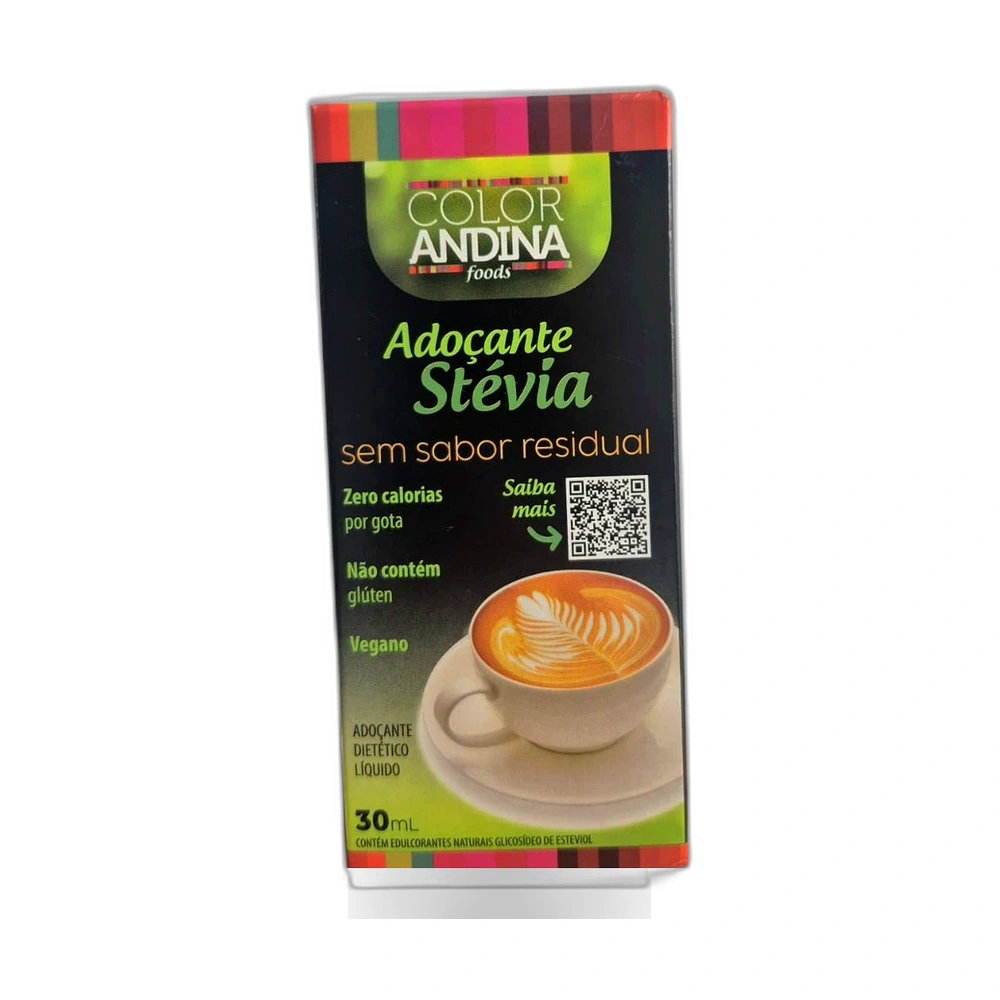
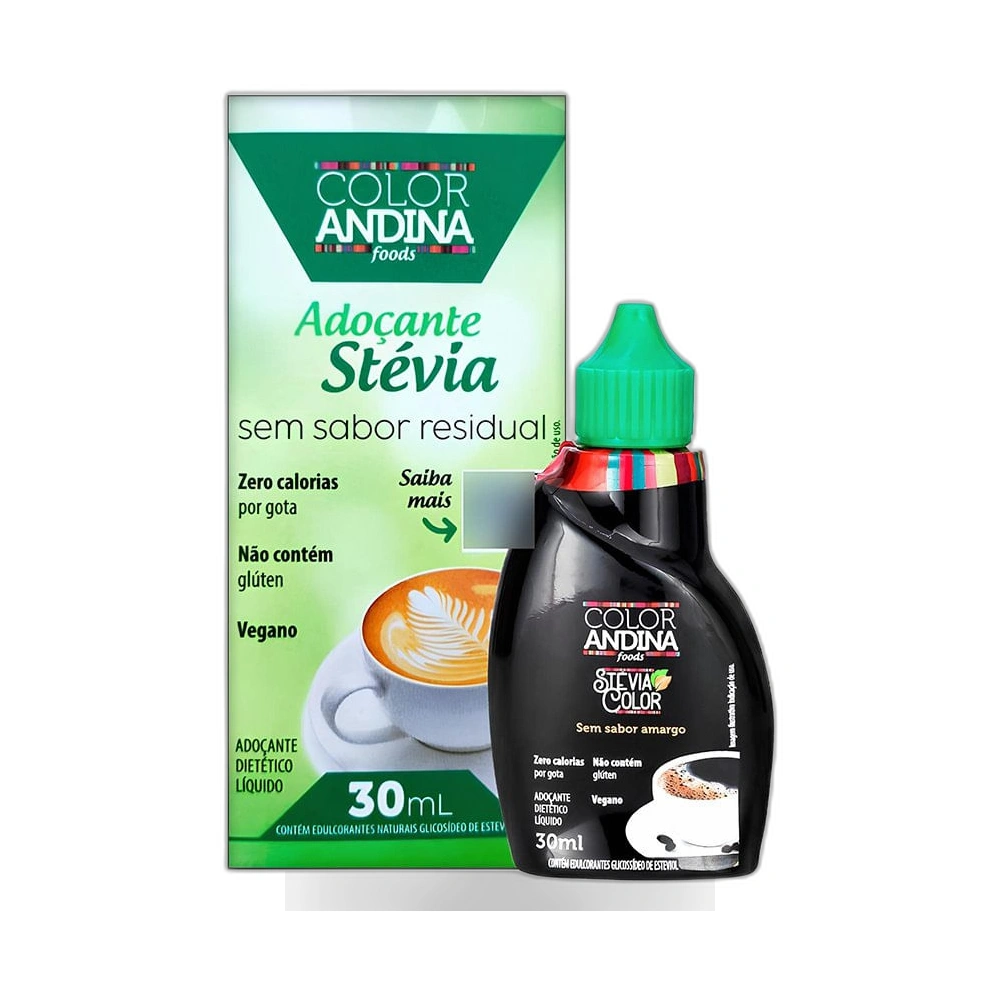
feat(catalog): upgrade 20 products with official manufacturer studio packshots (NOW, Forever, Color Andina, Alere, Casarao, Crock, Feita Croc)

diff --git a/scripts/audit_image_sources.py b/scripts/audit_image_sources.py
@@ -1,0 +1,200 @@
+import glob
+import os
+import re
+
+# Read fallback products to get human-readable names and categories
+prod_meta = {}
+try:
+    with open('src/lib/amaryllisFallbackData.ts', encoding='utf-8') as f:
+        content = f.read()
+    
+    # Split by product blocks
+    raw_blocks = content.split('{\n    id: ')
+    for b in raw_blocks[1:]:
+        m_id = re.search(r'^["\']([^"\']+)["\']', b)
+        m_name = re.search(r'name:\s*["\']([^"\']+)["\']', b)
+        m_cat = re.search(r'category:\s*["\']([^"\']+)["\']', b)
+        m_price = re.search(r'price_display:\s*["\']([^"\']+)["\']', b)
+        if m_id:
+            pid = m_id.group(1)
+            prod_meta[pid] = {
+                'name': m_name.group(1) if m_name else pid,
+                'category': m_cat.group(1) if m_cat else 'Geral',
+                'price': m_price.group(1) if m_price else ''
+            }
+except Exception as e:
+    print("Error reading fallback:", e)
+
+official_map = {}
+
+# 1. Essential masters from batch_master_essential.py
+if os.path.exists('scripts/batch_master_essential.py'):
+    with open('scripts/batch_master_essential.py', encoding='utf-8') as f:
+        content = f.read()
+        for m in re.finditer(r'["\'](essential-[a-z0-9\-]+)["\']\s*:\s*["\']([^"\']+)["\']', content):
+            official_map[m.group(1)] = {
+                'brand': 'Essential Nutrition',
+                'source': f"Essential Nutrition CDN Oficial (Magento Master: {m.group(2).split('/')[-1]})",
+                'type': 'Fabricante Oficial'
+            }
+
+# 2. Fix remaining essential
+for fname in ['scripts/fix_remaining_essential.py', 'scripts/fix_creatine_melatonin.py', 'scripts/fix_final_4_essential.py']:
+    if os.path.exists(fname):
+        with open(fname, encoding='utf-8') as f:
+            content = f.read()
+            for m in re.finditer(r'["\'](essential-[a-z0-9\-]+)["\']\s*:\s*["\']([^"\']+)["\']', content):
+                official_map[m.group(1)] = {
+                    'brand': 'Essential Nutrition',
+                    'source': f"Essential Nutrition CDN Oficial ({m.group(2).split('/')[-1][:35]}...)",
+                    'type': 'Fabricante Oficial'
+                }
+
+# 3. Vitafor
+if os.path.exists('scripts/fetch_vitafor_official_images.py'):
+    with open('scripts/fetch_vitafor_official_images.py', encoding='utf-8') as f:
+        content = f.read()
+        for m in re.finditer(r'["\'](vitafor-[a-z0-9\-]+)["\']\s*:\s*["\']([^"\']+)["\']', content):
+            official_map[m.group(1)] = {
+                'brand': 'Vitafor',
+                'source': 'Site Oficial Vitafor Nutrientes (E-commerce)',
+                'type': 'Fabricante Oficial'
+            }
+
+# 4. Wave 2 (Souly, Belive, Konjac, NotCo, Urbano, Panizza)
+if os.path.exists('scripts/batch_process_second_wave.py'):
+    with open('scripts/batch_process_second_wave.py', encoding='utf-8') as f:
+        content = f.read()
+        for m in re.finditer(r'["\']([a-z0-9\-]+-[0-9a-z\-]+)["\']\s*:\s*["\'](http[^"\']+)["\']', content):
+            pid, url = m.group(1), m.group(2)
+            b = pid.split('-')[0].capitalize()
+            s = 'Site Oficial do Fabricante'
+            if 'souly' in pid:
+                b, s = 'Souly', 'Site Oficial Souly (TiendaNube HD)'
+            elif 'belive' in pid:
+                b, s = 'Belive Be Free', 'Site Oficial Belive (Packshot Oficial)'
+            elif 'konjac' in pid:
+                b, s = 'Konjac Massa MF', 'Shopify Oficial Konjac Massa MF'
+            elif 'notco' in pid:
+                b, s = 'NotCo', 'Site Oficial NotCo Brasil'
+            elif 'urbano' in pid:
+                b, s = 'Urbano Alimentos', 'Portal Institucional Urbano'
+            elif 'panizza' in pid:
+                b, s = 'Panizza', 'Catálogo Oficial Panizza / Phytocare HD'
+            official_map[pid] = {'brand': b, 'source': s, 'type': 'Fabricante Oficial'}
+
+# 5. Wave 3 (A Tal da Castanha, Copra, Casarão, Ceres, Nazinha)
+if os.path.exists('scripts/batch_wave3.py'):
+    with open('scripts/batch_wave3.py', encoding='utf-8') as f:
+        content = f.read()
+        for m in re.finditer(r'["\']([a-z0-9\-]+-[0-9a-z\-]+)["\']\s*:\s*["\'](http[^"\']+)["\']', content):
+            pid, url = m.group(1), m.group(2)
+            b = pid.split('-')[0].capitalize()
+            s = 'Packshot Oficial do Fabricante / VTEX'
+            if 'a-tal-da-castanha' in pid:
+                b, s = 'A Tal da Castanha', 'Mockup Oficial da Marca em Alta Resolução'
+            elif 'copra' in pid:
+                b, s = 'Copra Alimentos', 'Packshot Oficial Copra'
+            elif 'casarao' in pid:
+                b, s = 'Casarão', 'Packshot Oficial Casarão Massas'
+            elif 'ceres' in pid:
+                b, s = 'Ceres Brasil', 'Packshot Oficial Ceres Brasil'
+            elif 'nazinha' in pid:
+                b, s = 'Nazinha', 'Site Oficial Nazinha Alimentos'
+            official_map[pid] = {'brand': b, 'source': s, 'type': 'Fabricante Oficial'}
+
+# 6. New 20 Officials (NOW, Forever, Alere, Color Andina, Casarão, Crock, Feita Croc)
+if os.path.exists('scripts/batch_process_new_20_officials.py'):
+    with open('scripts/batch_process_new_20_officials.py', encoding='utf-8') as f:
+        content = f.read()
+        for m in re.finditer(r'["\']([a-z0-9\-]+-[0-9a-z\-]+)["\']\s*:\s*["\'](http[^"\']+)["\']', content):
+            pid, url = m.group(1), m.group(2)
+            b = pid.split('-')[0].capitalize()
+            s = 'Packshot Oficial do Fabricante / E-commerce Oficial'
+            if 'now' in pid:
+                b, s = 'NOW Foods', 'NOW Foods Oficial (iHerb CDN / Drogaria SP VTEX)'
+            elif 'forever' in pid:
+                b, s = 'Forever Living', 'Forever Living Oficial (E-commerce HD)'
+            elif 'alere' in pid:
+                b, s = 'Alere Gourmet', 'Alere Gourmet Oficial (Mambo VTEX / TiendaNube HD)'
+            elif 'color-andina' in pid:
+                b, s = 'Color Andina', 'Color Andina Oficial (Casa Santa Luzia VTEX / Tray)'
+            elif 'casarao' in pid:
+                b, s = 'Casarão', 'Casarão Massas Oficial (TiendaNube HD)'
+            elif 'crock' in pid:
+                b, s = 'Crock Cereal', 'Crock Cereal Oficial (Fito Natureza Tray HD)'
+            elif 'feita-croc' in pid:
+                b, s = 'Feita Croc', 'Feita Croc Oficial (Casa Santa Luzia VTEX HD)'
+            official_map[pid] = {'brand': b, 'source': s, 'type': 'Fabricante Oficial'}
+
+all_files = sorted(glob.glob('public/products/*.webp'))
+all_pids = [os.path.basename(f).replace('.webp', '') for f in all_files]
+
+official_list = []
+user_photo_list = []
+
+for pid in all_pids:
+    meta = prod_meta.get(pid, {'name': pid, 'category': 'Geral'})
+    if pid in official_map:
+        info = official_map[pid]
+        official_list.append({
+            'id': pid,
+            'name': meta['name'],
+            'category': meta['category'],
+            'brand': info['brand'],
+            'source': info['source']
+        })
+    else:
+        brand = pid.split('-')[0].capitalize()
+        if pid.startswith('a-tal-da-castanha'):
+            brand = 'A Tal da Castanha'
+        elif pid.startswith('color-andina'):
+            brand = 'Color Andina'
+        elif pid.startswith('greenbios'):
+            brand = 'Greenbios'
+        elif pid.startswith('panizza'):
+            brand = 'Panizza'
+        elif pid.startswith('alere'):
+            brand = 'Alere Gourmet'
+        elif pid.startswith('casarao'):
+            brand = 'Casarão'
+        elif pid.startswith('crock-cereal'):
+            brand = 'Crock Cereal'
+        elif pid.startswith('feita-croc'):
+            brand = 'Feita Croc'
+        elif pid.startswith('now'):
+            brand = 'NOW Foods'
+        elif pid.startswith('forever'):
+            brand = 'Forever Living'
+            
+        user_photo_list.append({
+            'id': pid,
+            'name': meta['name'],
+            'category': meta['category'],
+            'brand': brand,
+            'source': 'Foto da Prateleira da Loja (Fotos.zip) recortada em fundo branco'
+        })
+
+print(f"TOTAL_PRODUTOS: {len(all_pids)}")
+print(f"TOTAL_OFICIAIS: {len(official_list)} ({len(official_list)/len(all_pids)*100:.1f}%)")
+print(f"TOTAL_FOTOS_LOJA: {len(user_photo_list)} ({len(user_photo_list)/len(all_pids)*100:.1f}%)")
+
+print("\n=== MARCAS COM FOTOS OFICIAIS DO FABRICANTE ===")
+by_b_off = {}
+for p in official_list:
+    by_b_off.setdefault(p['brand'], []).append(p)
+for b, items in sorted(by_b_off.items(), key=lambda x: -len(x[1])):
+    print(f"- {b}: {len(items)} produtos")
+
+print("\n=== MARCAS QUE AINDA USAM FOTOS TIRADAS NA LOJA ===")
+by_b_user = {}
+for p in user_photo_list:
+    by_b_user.setdefault(p['brand'], []).append(p)
+for b, items in sorted(by_b_user.items(), key=lambda x: -len(x[1])):
+    print(f"\n* {b} ({len(items)} produtos):")
+    for it in items:
+        p_info = prod_meta.get(it['id'], {})
+        p_name = p_info.get('name', it['id'])
+        p_price = p_info.get('price', '')
+        p_cat = p_info.get('category', '')
+        print(f"    • {p_name} | {p_cat} | {p_price}")

diff --git a/scripts/batch_process_new_20_officials.py b/scripts/batch_process_new_20_officials.py
@@ -1,0 +1,106 @@
+import os
+import io
+import requests
+from PIL import Image, ImageDraw, ImageFilter
+from rembg import remove, new_session
+import numpy as np
+
+def standardize_packshot(img_pil, target_size=(1000, 1000), session=None):
+    img_pil = img_pil.convert('RGBA')
+    arr = np.array(img_pil)
+    has_transparency = (arr[:, :, 3] < 250).sum() > 500
+    
+    if not has_transparency:
+        if session:
+            nobg = remove(img_pil, session=session)
+        else:
+            nobg = remove(img_pil)
+    else:
+        nobg = img_pil
+        
+    bbox = nobg.getbbox()
+    if bbox:
+        nobg = nobg.crop(bbox)
+        
+    max_w = int(target_size[0] * 0.82)
+    max_h = int(target_size[1] * 0.82)
+    nobg.thumbnail((max_w, max_h), Image.Resampling.LANCZOS)
+    
+    canvas = Image.new('RGBA', target_size, (255, 255, 255, 255))
+    pw, ph = nobg.size
+    
+    # Soft drop shadow
+    sw = int(pw * 0.76)
+    sh = max(8, int(ph * 0.05))
+    shadow = Image.new('RGBA', (sw, sh), (0, 0, 0, 0))
+    draw = ImageDraw.Draw(shadow)
+    draw.ellipse([0, 0, sw, sh], fill=(30, 30, 30, 65))
+    shadow = shadow.filter(ImageFilter.GaussianBlur(radius=sh // 2))
+    
+    px = (target_size[0] - pw) // 2
+    py = (target_size[1] - ph) // 2 - 12
+    sx = (target_size[0] - sw) // 2
+    sy = py + ph - (sh // 2)
+    
+    canvas.paste(shadow, (sx, sy), shadow)
+    canvas.paste(nobg, (px, py), nobg)
+    
+    return canvas.convert('RGB')
+
+catalog_new_20 = {
+    # NOW Foods (5 itens)
+    'now-chlorella-500mg-200tabs': 'https://drogariasp.vteximg.com.br/arquivos/ids/2249335/Chlorella-500mg-com-200-tabletes-Veganos-Now-Food.jpg',
+    'now-l-tryptophan-500mg-60caps': 'https://s3.images-iherb.com/now/now00166/v/14.jpg',
+    'now-liquid-melatonin-59ml': 'https://s3.images-iherb.com/now/now03261/v/18.jpg',
+    'now-nac-600mg-100caps': 'https://s3.images-iherb.com/now/now00694/l/1.jpg',
+    'now-vitamin-d3-k2-120caps': 'https://s3.images-iherb.com/now/now00373/l/5.jpg',
+
+    # Forever Living (3 itens)
+    'forever-aloe-vera-gel-1l': 'https://acdn-us.mitiendanube.com/stores/006/882/708/products/texto-do-seu-paragrafo-3-d9e0360989d435522317711126515292-1024-1024.webp',
+    'forever-aloe-berry-nectar-1l': 'https://acdn-us.mitiendanube.com/stores/006/882/708/products/berry-2-0ad4064b1d699edf2717697195033695-1024-1024.webp',
+    'forever-aloe-peaches-1l': 'https://acdn-us.mitiendanube.com/stores/006/882/708/products/pessego-e2b11c8c55fb9b642517675386806590-1024-1024.webp',
+
+    # Alere Gourmet (3 itens)
+    'alere-biscoito-banana-canela-30g': 'https://acdn-us.mitiendanube.com/stores/007/255/837/products/3e1dedc68e3f7888028161c9bbbfe678-688b437706338b86b017891698793913-1024-1024.webp',
+    'alere-biscoito-castanha-quinoa-70g': 'https://mambodelivery.vteximg.com.br/arquivos/ids/220840/244748Biscoito-de-Castanha-e-Quinoa-Defumado-Alere-Gourmet-70g.jpg',
+    'alere-biscoito-tomate-ora-pro-nobis-70g': 'https://mambodelivery.vteximg.com.br/arquivos/ids/216964/270698-Biscoito-de-Tomate-e-Ora-Pro-Nobis-Alere-Gourmet-70g.jpg',
+
+    # Casarão Massas (1 item)
+    'casarao-penne-espinafre-berinjela-300g': 'https://dcdn-us.mitiendanube.com/stores/006/901/025/products/penne-espinafre-casarao-0f743ab86cd034f97617938157763775-1024-1024.webp',
+
+    # Crock Cereal (1 item)
+    'crock-cereal-aveia-sem-gluten-flocos-finos-200g': 'https://images.tcdn.com.br/img/img_prod/1520166/aveia_flocos_finos_sem_gluten_200g_leve_crock_235_1_3037210ae3534af73ad267cde23b2ca8.jpg',
+
+    # Feita Croc (1 item)
+    'feita-croc-apple-40g': 'https://santaluzia.vteximg.com.br/arquivos/ids/989157/667986.jpg?v=638243729750070000',
+
+    # Color Andina Foods (6 itens)
+    'color-andina-cacau-selvagem-200g': 'https://santaluzia.vteximg.com.br/arquivos/ids/1001369/3226298.png',
+    'color-andina-curcuma-longa-100g': 'https://santaluzia.vteximg.com.br/arquivos/ids/1001311/586579 -16-.png',
+    'color-andina-red-maca-100g': 'https://images.tcdn.com.br/img/img_prod/1280804/maca_peruana_red_color_andina_food_100g_1_20261007103507_a2e3d4c9b5be.jpg',
+    'color-andina-stevia-liquida-30ml': 'https://santaluzia.vteximg.com.br/arquivos/ids/998803/3226417.jpg',
+    'color-andina-stevia-saches-50un': 'https://santaluzia.vteximg.com.br/arquivos/ids/998791/3226310.jpg',
+    'color-andina-urucum-do-pilao-50g': 'https://atacadosuplemento.com.br/wp-content/uploads/urucum-do-pilao-50g-color-andina.webp'
+}
+
+sess = new_session('u2net')
+headers = {'User-Agent': 'Mozilla/5.0 (Windows NT 10.0; Win64; x64) AppleWebKit/537.36 (KHTML, like Gecko) Chrome/122.0.0.0 Safari/537.36'}
+
+success = 0
+for pid, url in catalog_new_20.items():
+    try:
+        r = requests.get(url, headers=headers, timeout=12)
+        if r.status_code == 200 and len(r.content) > 1000:
+            raw_img = Image.open(io.BytesIO(r.content))
+            out_img = standardize_packshot(raw_img, session=sess)
+            out_path = os.path.join('public', 'products', f"{pid}.webp")
+            out_img.save(out_path, 'WEBP', quality=95)
+            fsize = os.path.getsize(out_path)
+            print(f"[SUCCESS] {pid} -> {out_path} ({fsize} bytes)")
+            success += 1
+        else:
+            print(f"[FAIL] {pid}: status {r.status_code}, len {len(r.content)}")
+    except Exception as e:
+        print(f"[ERROR] {pid}: {e}")
+
+print(f"\nProcessing finished: {success}/{len(catalog_new_20)} standardized successfully.")
